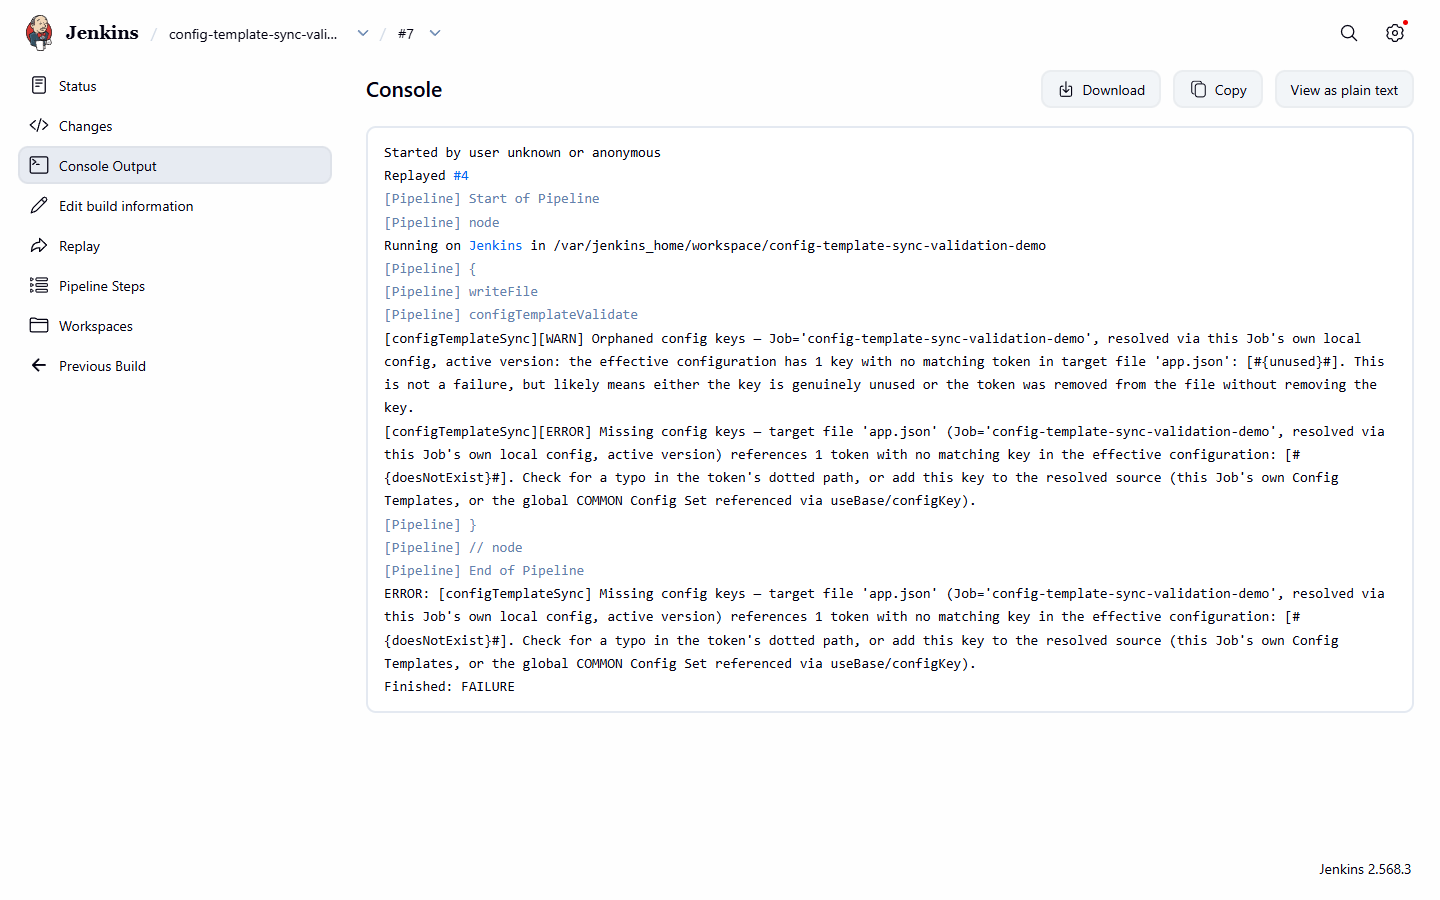
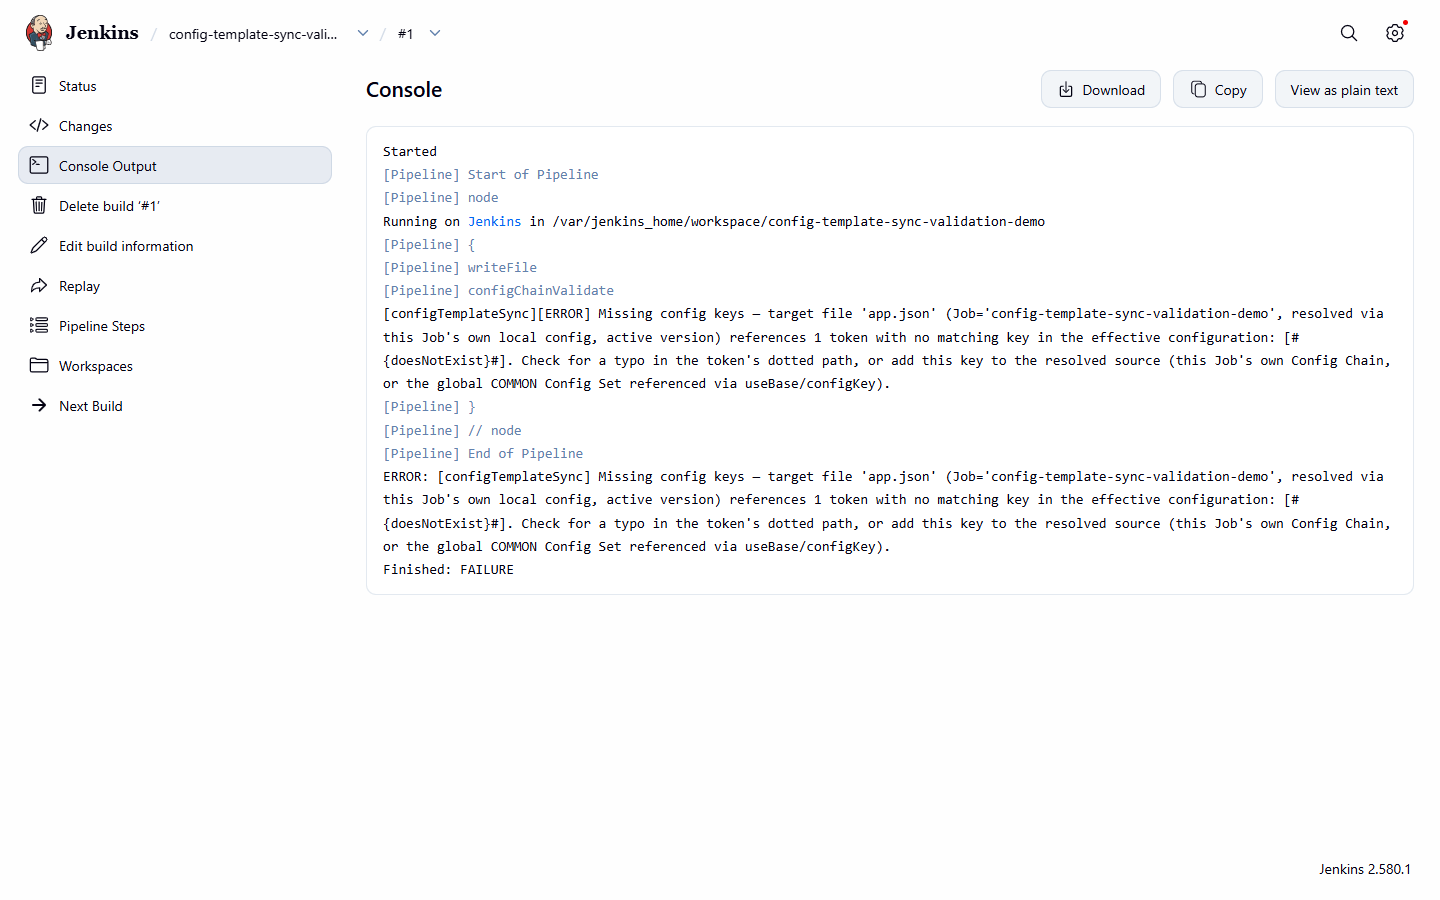
Regenerate screenshots for Config Chains UI

diff --git a/docs/getting-started.md b/docs/getting-started.md
@@ -2,9 +2,7 @@
 
 [Back to the README](../README.md) · [Pipeline step reference](pipeline-steps.md) · [Use cases](use-cases.md)
 
-A from-scratch walkthrough, from install to the first successful build. The screenshots were taken with
-an earlier release and may still show the old "Config Templates" page title and the old `configTemplate*`
-step names; the current names are `Config Chains` and `configChain*`.
+A from-scratch walkthrough, from install to the first successful build.
 
 **1. Install the plugin.** See [Install](../README.md#install).
 
